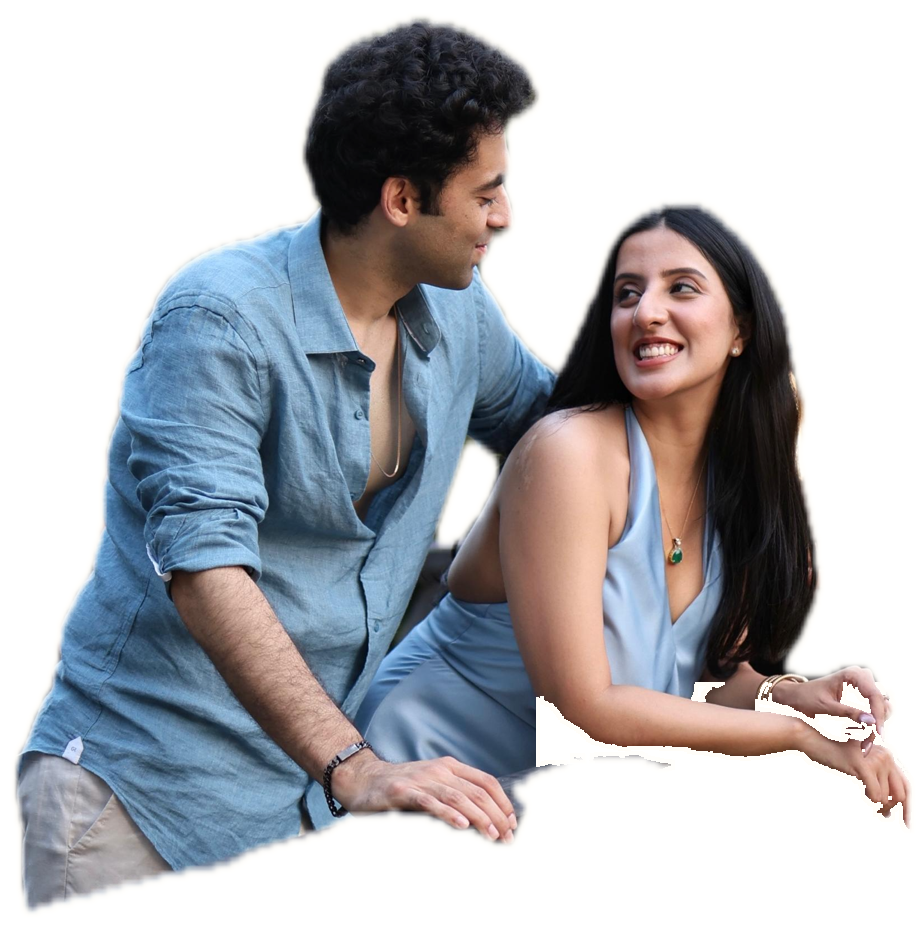
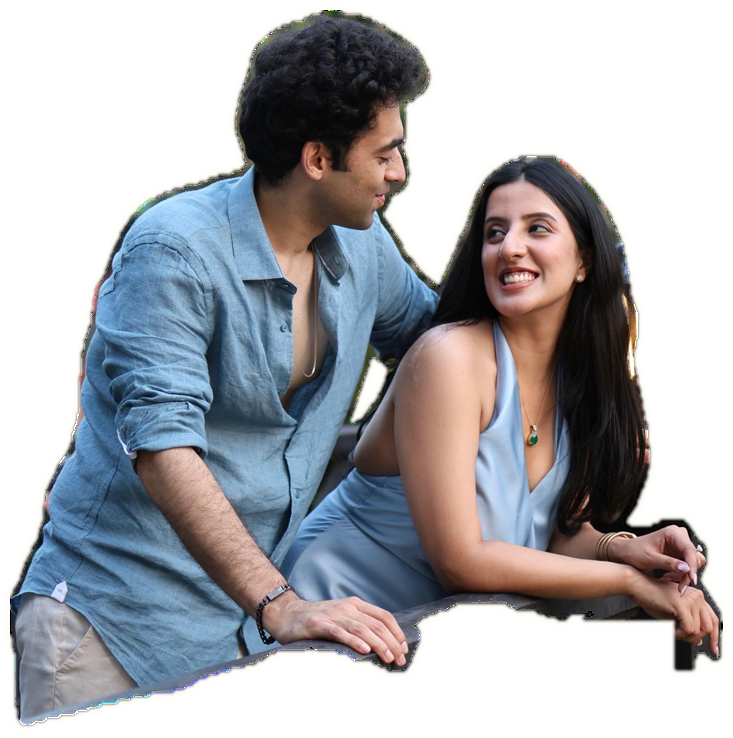
Fix mobile layout: cover stage sizing, bridge cut-out, sticker placements

Changed region(s): [[0.0, 0.0, 0.9905, 0.9973]]

diff --git a/shrananigans/SA25-26/index.html b/shrananigans/SA25-26/index.html
@@ -48,7 +48,7 @@ p.lede{font-size:clamp(1.05rem,1.6vw,1.3rem);color:var(--ink2);max-width:52ch}
 .reveal.d1{transition-delay:.08s}.reveal.d2{transition-delay:.16s}.reveal.d3{transition-delay:.24s}.reveal.d4{transition-delay:.32s}
 
 /* cover */
-.cover{position:relative;min-height:calc(100svh - 48px);display:grid;align-items:center;overflow:hidden;padding:48px 0 40px}
+.cover{position:relative;min-height:calc(100vh - 48px);display:grid;align-items:center;overflow:hidden;padding:48px 0 40px}
 .cover .grid{display:grid;grid-template-columns:1.05fr .95fr;gap:24px;align-items:center}
 .cover h1{font-size:clamp(3.4rem,9.5vw,8.6rem);line-height:.92;margin:.15em 0 .2em}
 .cover h1 i{font-style:italic;font-weight:300;color:var(--red)}
@@ -56,7 +56,7 @@ p.lede{font-size:clamp(1.05rem,1.6vw,1.3rem);color:var(--ink2);max-width:52ch}
 .cover .meta{margin-top:34px;display:grid;gap:6px;max-width:42ch}
 .cover .meta .mono{letter-spacing:.16em}
 .cover .stage{position:relative;height:min(78vh,720px)}
-.cover .stage .cut{width:min(78%,520px);left:50%;top:50%;transform:translate(-50%,-50%);--r:1.5deg}
+.cover .stage .cut{width:min(84%,540px);left:50%;top:50%;transform:translate(-50%,-50%);--r:1.5deg}
 .cover .stage .cut.main{z-index:2}
 .cover .stage .ring{position:absolute;right:4%;top:10%;width:38%;--r:-6deg;z-index:3}
 .cover .note{position:absolute;left:4%;bottom:6%;max-width:220px;transform:rotate(-5deg)}
@@ -66,7 +66,7 @@ p.lede{font-size:clamp(1.05rem,1.6vw,1.3rem);color:var(--ink2);max-width:52ch}
 @keyframes nudge{0%,100%{transform:translate(-50%,0)}50%{transform:translate(-50%,6px)}}
 .scrollhint{animation:nudge 2s ease-in-out infinite}
 @media(max-width:800px){.cover{min-height:0;padding:28px 0 0}.cover .grid{grid-template-columns:1fr;gap:8px}.cover h1{font-size:clamp(3.4rem,17vw,5.4rem)}.cover .meta{margin-top:22px}
-.cover .stage{height:min(50svh,460px);margin-top:6px}.cover .stage .cut{width:min(92%,420px);left:50%;top:auto;bottom:0;transform:translateX(-50%)}
+.cover .stage{height:min(92vw,400px);margin-top:6px}.cover .stage .cut{width:min(92%,420px);left:50%;top:auto;bottom:0;transform:translateX(-50%)}
 .cover .note{left:0;top:6%;bottom:auto;max-width:200px;font-size:1.35rem}.cover .note svg{right:-54px;top:16px;width:60px}.scrollhint{display:none}}
 
 /* sections */
@@ -150,7 +150,7 @@ th.num{text-align:right}
 
 /* timeline */
 .tl{position:relative;height:420vh}
-.tl .sticky{position:sticky;top:48px;height:calc(100svh - 48px);overflow:hidden}
+.tl .sticky{position:sticky;top:48px;height:calc(100vh - 48px);overflow:hidden}
 .tl .road{position:absolute;left:0;right:0;bottom:18%;border-top:1px dashed var(--ink2);opacity:.5}
 .tl .track{position:absolute;left:0;top:0;height:100%;display:flex;align-items:center;gap:clamp(40px,8vw,120px);padding-left:50vw;will-change:transform;transform:translateX(calc(var(--p,0) * var(--len,-3000px)))}
 .tl .stop{flex:0 0 auto;width:min(78vw,340px);background:#fff;border:1px solid var(--line);padding:22px 24px;border-radius:4px;box-shadow:0 14px 30px rgba(27,33,48,.08);position:relative;transform:translateY(-8vh)}
@@ -232,7 +232,7 @@ footer ol{padding-left:1.2em;display:grid;gap:6px;max-width:70ch}
 .gloss dd{margin:6px 0 18px;font-size:1rem;color:var(--ink2)}
 .gloss dd i{font-family:var(--serif);color:var(--ink);font-size:1.08rem}
 .gloss dd .ex{display:block;margin-top:6px;font-family:var(--serif);font-style:italic;color:var(--ink);font-size:1.05rem}
-@media(max-width:800px){.gloss{grid-template-columns:1fr}.letter-art{display:none}.board{margin-top:18px}.board .row{grid-template-columns:82px 1fr;padding:6px 0;font-size:.9rem}.board .row div span{display:none}.cover .note svg{display:none}.cover .tagline{font-size:1.05rem;margin-top:8px}}
+@media(max-width:800px){.btn .lg{display:none}.gloss{grid-template-columns:1fr}.letter-art{min-height:0!important;margin-top:28px;padding-bottom:0}.letter-art .cut{position:relative!important;width:min(92%,360px)!important;margin:0 auto}.letter-art .cap{position:static!important;margin-top:10px}.board{margin-top:18px}.board .row{grid-template-columns:82px 1fr;padding:6px 0;font-size:.9rem}.board .row div span{display:none}.cover .note svg{display:none}.cover .tagline{font-size:1.05rem;margin-top:8px}}
 .chart{width:100%;height:auto;display:block;overflow:visible}
 .chart text{font-family:var(--mono);font-size:11px;fill:var(--ink2)}
 .chart .lbl{font-family:var(--serif);font-style:italic;font-size:13px;fill:var(--ink)}
@@ -276,10 +276,9 @@ footer ol{padding-left:1.2em;display:grid;gap:6px;max-width:70ch}
 .cap{font-family:var(--mono);font-size:10.5px;letter-spacing:.12em;text-transform:uppercase;color:var(--mute);margin-top:12px;display:flex;justify-content:space-between;gap:12px;white-space:nowrap}
 @keyframes drift{0%,100%{transform:translateY(0)}50%{transform:translateY(-8px)}}
 .drift{animation:drift 7s ease-in-out infinite}
-.cover .stage .win{width:min(80%,500px);aspect-ratio:4/5;margin:0 0 0 auto}
 .cover .stage .note{left:0;bottom:8%;max-width:210px}
 .cover .stage .note svg{right:-64px;top:-2px}
-@media(max-width:800px){.cover .stage{height:auto;margin-top:14px}.cover .stage .win{width:min(88%,380px)}.cover .stage .note{position:relative;margin:14px 0 0;transform:rotate(-3deg);max-width:none;top:auto}}
+@media(max-width:800px){.cover .stage{height:min(92vw,400px);margin-top:18px}.cover .stage .cut{width:min(86%,340px);left:50%;top:auto;bottom:0;transform:translateX(-50%)}.cover .stage .note{position:absolute;left:0;bottom:-44px;top:auto;max-width:none;transform:rotate(-3deg);font-size:1.25rem}.cover{padding-bottom:48px}}
 .letter-art .win{width:min(82%,380px);aspect-ratio:4/5;margin-left:auto}
 .medallion{display:grid;grid-template-columns:150px 1fr;gap:22px;align-items:center;margin-top:40px;padding-top:22px;border-top:1px solid var(--line)}
 .medallion .win{width:140px;aspect-ratio:1}
@@ -509,7 +508,7 @@ body.locked{overflow:hidden}
       <h2>The <em>"I love you more"</em> dispute</h2>
       <p class="lede">Filed by both parties, repeatedly, since 27 September 2025. Neither side has produced evidence. Both keep filing.</p>
       <div class="ruling">Ruling: unresolved. Referred to FY27. The respondent may file a counter-claim below.</div>
-      <button class="btn" id="claim">File counter-claim: "I love you more" <span>→</span></button>
+      <button class="btn" id="claim">File counter-claim<span class="lg">: "I love you more"</span> <span>→</span></button>
       <div class="medallion"><div class="cut float" style="position:relative;width:150px;--r:-4deg"><img src="cut/roka.png" alt=""></div><p>"you have all of it bb"<b>Shradha · 13 Jan 2026 · 8:06 PM · entered as evidence for the defence</b></p></div>
     </div>
     <table class="ledger reveal d1" id="matter">
